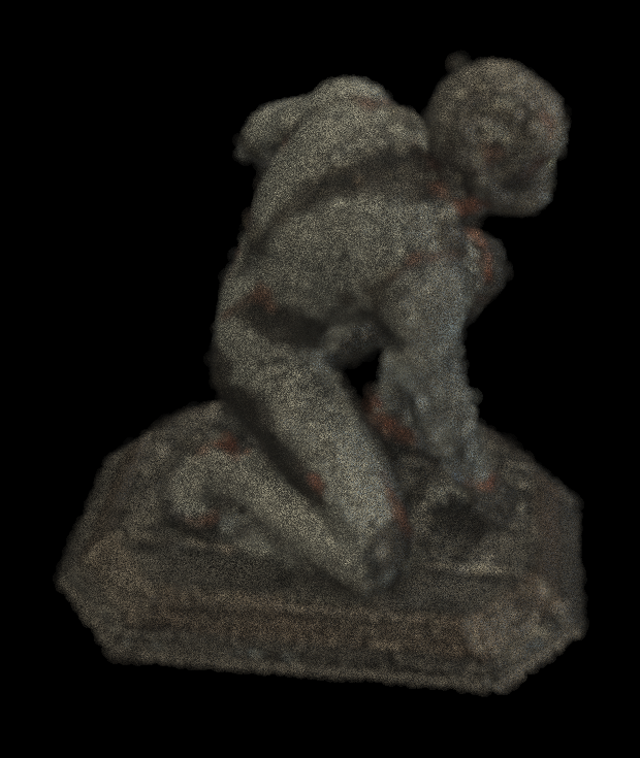
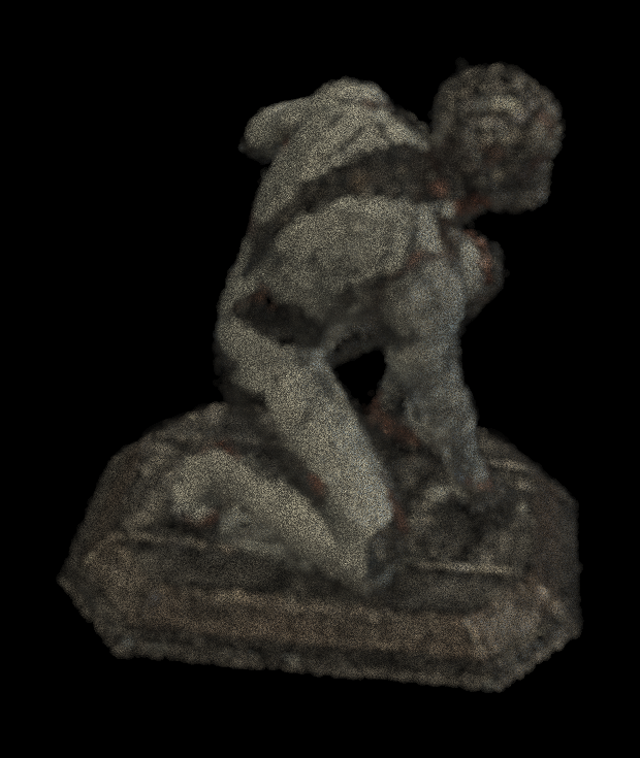
recover mask-supported Gaussian footprints

diff --git a/blade-volume-train/src/gaussian_splat.rs b/blade-volume-train/src/gaussian_splat.rs
@@ -50,6 +50,11 @@ const HIGH_VIEW_PBR_INITIAL_OPACITY: f32 = 0.25;
 const PBR_RENDER_MIN_ALPHA: f32 = 3.0e-2;
 const PBR_MIN_PERSISTED_OPACITY: f32 = 0.05;
 const PBR_MIN_RETAINED_DIVISOR: usize = 2;
+const PBR_MASK_RECOVERY_RETAINED_NUMERATOR: usize = 3;
+const PBR_MASK_RECOVERY_RETAINED_DENOMINATOR: usize = 4;
+const PBR_MASK_RECOVERY_FOOTPRINT_NUMERATOR: usize = 39;
+const PBR_MASK_RECOVERY_FOOTPRINT_DENOMINATOR: usize = 40;
+const PBR_MASK_RECOVERY_SIGMA: f32 = 2.0;
 const STATIC_CONTINUATION_MIN_VALIDATION_GAIN_DB: f32 = 0.05;
 
 /// Screen-space mean and covariance estimated from the seven 3DGUT sigma
@@ -412,6 +417,15 @@ pub struct PbrSupportGuard {
     pub particles: usize,
     pub retained: usize,
     pub restored: bool,
+}
+
+/// Outcome of restoring only initialized supports that remain inside the
+/// construction silhouettes.
+#[derive(Clone, Copy, Debug)]
+pub struct PbrSupportRecovery {
+    pub particles: usize,
+    pub retained: usize,
+    pub restored: usize,
 }
 
 /// One calibrated image capture used to separate Gaussian geometry from
@@ -1005,6 +1019,117 @@ pub fn guard_pbr_support(
         retained,
         restored,
     })
+}
+
+/// Restore strongly mask-supported particles after a partial PBR support
+/// collapse.
+///
+/// The ordinary background-only objective remains responsible for healthy
+/// fits. Recovery activates only when fewer than three quarters of the input
+/// particles would survive persistence, after the existing half-cloud guard
+/// has had an opportunity to reject a degenerate fit. A low-opacity particle
+/// recovers its initialized opacity, scale, and rotation only when the center
+/// and six two-sigma axis endpoints land inside at least 97.5% of construction
+/// masks. Held views do not enter this decision.
+pub fn recover_masked_pbr_support(
+    model: &mut vol::PointCloudModel,
+    initialized: &vol::PointCloudModel,
+    capture: &crate::inverse::capture::Capture,
+    view_indices: &[usize],
+) -> Result<PbrSupportRecovery, String> {
+    model.validate()?;
+    initialized.validate()?;
+    if model.points.len() != initialized.points.len() {
+        return Err("PBR support recovery requires matching particle counts".to_string());
+    }
+    if view_indices
+        .iter()
+        .any(|&index| index >= capture.views.len())
+    {
+        return Err("PBR support recovery view is outside the capture".to_string());
+    }
+    let particles = model.points.len();
+    let retained = model
+        .points
+        .iter()
+        .filter(|point| point.w >= PBR_MIN_PERSISTED_OPACITY)
+        .count();
+    let mut outcome = PbrSupportRecovery {
+        particles,
+        retained,
+        restored: 0,
+    };
+    if view_indices.is_empty()
+        || view_indices
+            .iter()
+            .any(|&index| capture.views[index].mask.is_none())
+        || retained * PBR_MASK_RECOVERY_RETAINED_DENOMINATOR
+            >= particles * PBR_MASK_RECOVERY_RETAINED_NUMERATOR
+    {
+        return Ok(outcome);
+    }
+    let initialized_transforms = initialized
+        .transforms
+        .as_ref()
+        .ok_or_else(|| "PBR support recovery requires initialized transforms".to_string())?;
+    let transforms = model
+        .transforms
+        .as_mut()
+        .ok_or_else(|| "PBR support recovery requires learned transforms".to_string())?;
+    for index in 0..particles {
+        if model.points[index].w >= PBR_MIN_PERSISTED_OPACITY {
+            continue;
+        }
+        let center = model.points[index].truncate();
+        let rotation = initialized_transforms.rotations[index];
+        let scale = initialized_transforms.scales[index];
+        let mut samples = [center; 7];
+        for (axis_index, axis) in [glam::Vec3::X, glam::Vec3::Y, glam::Vec3::Z]
+            .into_iter()
+            .enumerate()
+        {
+            let offset = rotation * (axis * scale) * PBR_MASK_RECOVERY_SIGMA;
+            samples[1 + 2 * axis_index] = center - offset;
+            samples[2 + 2 * axis_index] = center + offset;
+        }
+        let mut inside = 0usize;
+        let total = view_indices.len() * samples.len();
+        for &view_index in view_indices {
+            let view = &capture.views[view_index];
+            let mask = view.mask.as_ref().unwrap();
+            for &sample in &samples {
+                let Some(([x, y], _)) = crate::inverse::capture::project(
+                    &view.camera,
+                    capture.width,
+                    capture.height,
+                    sample,
+                ) else {
+                    continue;
+                };
+                let x = x.floor() as isize;
+                let y = y.floor() as isize;
+                if x >= 0
+                    && y >= 0
+                    && x < capture.width as isize
+                    && y < capture.height as isize
+                    && mask[y as usize * capture.width + x as usize] > 0.5
+                {
+                    inside += 1;
+                }
+            }
+        }
+        if inside * PBR_MASK_RECOVERY_FOOTPRINT_DENOMINATOR
+            < total * PBR_MASK_RECOVERY_FOOTPRINT_NUMERATOR
+        {
+            continue;
+        }
+        model.points[index].w = initialized.points[index].w;
+        transforms.scales[index] = initialized_transforms.scales[index];
+        transforms.rotations[index] = initialized_transforms.rotations[index];
+        outcome.restored += 1;
+    }
+    model.validate()?;
+    Ok(outcome)
 }
 
 /// Transfer learned Gaussian support back to the corresponding PBR surfels.
@@ -4265,6 +4390,79 @@ mod tests {
             .scales
             .iter()
             .all(|&scale| scale == glam::Vec3::splat(0.02)));
+    }
+
+    #[test]
+    fn masked_pbr_recovery_is_local_and_requires_partial_collapse() {
+        let mut initialized = model(
+            (0..8)
+                .map(|index| glam::Vec4::new((index as f32 - 3.5) * 0.01, 0.0, 2.0, 0.25))
+                .collect(),
+        );
+        initialized
+            .transforms
+            .as_mut()
+            .unwrap()
+            .scales
+            .fill(glam::Vec3::splat(0.01));
+        let capture = |mask: Vec<f32>| crate::inverse::capture::Capture {
+            width: 8,
+            height: 8,
+            views: vec![crate::inverse::capture::View {
+                name: "mask.png".to_string(),
+                camera: vol::CameraParams {
+                    cam_position: [0.0; 3],
+                    cam_orientation: glam::Quat::IDENTITY.to_array(),
+                    fov: [1.0; 2],
+                    depth: 10.0,
+                    principal: [0.0; 2],
+                },
+                pixels: vec![[0.0; 3]; 64],
+                mask: Some(mask),
+            }],
+        };
+        let learned = || {
+            let mut learned = initialized.clone();
+            for point in &mut learned.points[5..] {
+                point.w = 0.01;
+            }
+            learned
+                .transforms
+                .as_mut()
+                .unwrap()
+                .scales
+                .fill(glam::Vec3::splat(0.001));
+            learned
+        };
+
+        let mut recovered = learned();
+        let outcome =
+            recover_masked_pbr_support(&mut recovered, &initialized, &capture(vec![1.0; 64]), &[0])
+                .unwrap();
+        assert_eq!(outcome.retained, 5);
+        assert_eq!(outcome.restored, 3);
+        assert!(recovered.points[5..].iter().all(|point| point.w == 0.25));
+        let scales = &recovered.transforms.as_ref().unwrap().scales;
+        assert!(scales[..5]
+            .iter()
+            .all(|&scale| scale == glam::Vec3::splat(0.001)));
+        assert!(scales[5..]
+            .iter()
+            .all(|&scale| scale == glam::Vec3::splat(0.01)));
+
+        let mut outside = learned();
+        let outcome =
+            recover_masked_pbr_support(&mut outside, &initialized, &capture(vec![0.0; 64]), &[0])
+                .unwrap();
+        assert_eq!(outcome.restored, 0);
+
+        let mut healthy = learned();
+        healthy.points[5].w = 0.1;
+        let outcome =
+            recover_masked_pbr_support(&mut healthy, &initialized, &capture(vec![1.0; 64]), &[0])
+                .unwrap();
+        assert_eq!(outcome.retained, 6);
+        assert_eq!(outcome.restored, 0);
     }
 
     #[test]

diff --git a/blade-volume-train/src/bin/reconstruct.rs b/blade-volume-train/src/bin/reconstruct.rs
@@ -1207,6 +1207,30 @@ fn main() {
                     std::process::exit(1);
                 });
         }
+        if !multilight_geometry_fitted {
+            let initialized =
+                train::gaussian_splat::pbr_from_surface(&fitted.scene.model, train_views.len())
+                    .unwrap_or_else(|error| {
+                        eprintln!("cannot rebuild initialized PBR support: {error}");
+                        std::process::exit(1);
+                    });
+            let recovery = train::gaussian_splat::recover_masked_pbr_support(
+                gaussian,
+                &initialized,
+                &capture,
+                &train_views,
+            )
+            .unwrap_or_else(|error| {
+                eprintln!("cannot recover mask-supported PBR geometry: {error}");
+                std::process::exit(1);
+            });
+            if recovery.restored != 0 {
+                println!(
+                    "PBR support: restored {} mask-supported particles after {} of {} survived fitting",
+                    recovery.restored, recovery.retained, recovery.particles,
+                );
+            }
+        }
         train::gaussian_splat::attach_pbr(gaussian, &fitted.scene.model).unwrap_or_else(|error| {
             eprintln!("cannot attach final PBR attributes to Gaussian geometry: {error}");
             std::process::exit(1);

diff --git a/docs/RELIGHTING_ROADMAP.md b/docs/RELIGHTING_ROADMAP.md
@@ -48,9 +48,10 @@ not contain or fall back to polygonal geometry.
 - The first Objects With Lighting gate now holds out both camera and natural
   HDR environment independently. A 25,000-point scalar cloud is recognizable
   and reaches 21.88/20.16 dB foreground mean/worst on nine official pairs, but
-  remains grey and texture-poor. The ordinarily trained Gaussian suppresses
-  useful foreground support; retaining the initialized support improves it,
-  but does not yet produce a validation-safe training change.
+  remains grey and texture-poor. A local construction-mask recovery now
+  restores 3,664 of the supports suppressed by ordinary Gaussian fitting and
+  improves official mean, tail, recall, and precision together. It does not
+  recover the missing material detail.
 
 The current bottleneck is therefore **preserving cross-view surface support in
 the Gaussian objective first, separating material from unknown illumination
@@ -75,7 +76,7 @@ surface.
 | Light transport | renderer selected | Use coupled sampled visibility and one bounded bounce: four samples for iteration, eight for selected output | Both excluded-light mean/tail improve with no coverage regression or GPU fault |
 | Radiometry and transport | attributed; scalar correction and extra samples rejected | Preserve measured light scale; treat the repeated `(light, view)` residual as surface/response evidence, not exposure | A correction repeats across objects and every known-light tail before either excluded light is opened |
 | Materials and capture layout | ownership-filtered response improves 27/28 official cells but remains rejected | Keep the global broad-response diagnostic opt-in; use calibrated depth/correspondence rather than more mask heuristics before revisiting the validated diffuse/F0 basis | Every known-light and whole-frame tail plus two held lights and a second object improve; otherwise keep the feature off |
-| Unknown natural illumination | independent OWL gate complete; quality fails | Preserve initialized Gaussian coverage with a construction-mask objective before changing material or light capacity | Improve official mean/worst PSNR and recall without losing precision on the fixed nine-pair gate |
+| Unknown natural illumination | local support recovery selected; appearance quality fails | Replace safety restoration with an ownership-aware training objective before changing material or light capacity | Improve over the recovered cloud's official mean/worst PSNR and recall without losing precision on the fixed nine-pair gate |
 
 The selected dense-support prerequisite remains the training-mask hull. On the
 `obj_31_painted_toy` split, filtering 68,278 of 1,254,170 one-view fused samples
@@ -1092,6 +1093,7 @@ recall/precision:
 | 2.5k ordinarily fitted Gaussian | `19.64/17.73 dB; 68.3/96.8%` |
 | 25k scalar | `21.88/20.16 dB; 99.6/95.7%` |
 | 25k ordinarily fitted Gaussian | `19.28/17.39 dB; 60.8/95.8%` |
+| 25k mask-recovered Gaussian | `19.64/18.07 dB; 69.6/96.0%` |
 | 25k support-preserving Gaussian diagnostic | `20.44/17.95 dB; 87.1/92.5%` |
 | Black | `10.84/8.60 dB` |
 
@@ -1103,19 +1105,37 @@ survival guard from 50% to 80% restores 98.7% recall, but scores only
 20.32/18.03 dB and reduces precision to 89.8%; that code was removed. A global
 particle-count guard is not the required coverage objective.
 
+A narrower recovery is selected. It activates only when the single-light fit
+would retain fewer than three quarters of its evidence-backed inputs, after the
+existing half-cloud collapse guard. Each low-opacity point recovers initialized
+opacity and covariance only if its center and six two-sigma axis endpoints lie
+inside at least 97.5% of construction-mask samples. This restores 3,664 points.
+On the 12 internal cameras it moves the ordinary Gaussian from
+`25.81/21.44;19.51/15.54 dB;60.3/97.6%` to
+`26.24/22.28;19.98/16.42 dB;68.6/97.7%`. On the nine official pairs it improves
+19.28/17.39→19.64/18.07 dB, recall 60.8→69.6%, and precision 95.8→96.0%.
+Healthy fits above the three-quarter boundary, maskless captures, multilight
+continuations, and full restores are exact no-ops.
+
+The independently prepared OWL Apple split is the real-capture no-op control.
+Its ordinary fit retains 21,512 of 24,996 particles (86.1%), so recovery changes
+nothing. The nine internal held cameras score `23.35/18.70;15.00/9.19 dB` with
+81.2% recall and 98.3% precision. No Apple ground-truth relighting pair entered
+selection or this control.
+
 The selected evidence is deliberately narrow: an all-cloud pipeline can
 recover a recognizable surface and react to an independent natural environment,
-but appearance is grey, soft, and missing high-frequency texture. The next
-implementation must use construction masks and views to penalize lost Gaussian
-foreground ownership while jointly fitting opacity and covariance. It may
-advance only if official mean, tail, recall, and precision improve together.
-After support is stable, constrain the material/light decomposition with shared
-material structure or calibrated repeated environments; one unknown input
-environment cannot by itself identify arbitrary per-point BRDFs. Batch point
-proposals before revisiting the exact 44-minute refinement. ReNé remains behind
-near-field point-light and deterministic background-subtraction work, while
-OLATverse is the best repeated-light final gate once release access is
-available.
+but appearance is grey, soft, and missing high-frequency texture. The local
+recovery bounds damage after fitting; the next implementation should make
+foreground ownership part of the Gaussian objective so useful supports never
+need restoration. It may advance only if mean, tail, recall, and precision
+improve over the recovered cloud together. Then constrain material/light
+decomposition with shared material structure or calibrated repeated
+environments; one unknown input environment cannot by itself identify arbitrary
+per-point BRDFs. Batch point proposals before revisiting the exact 44-minute
+refinement. ReNé remains behind near-field point-light and deterministic
+background-subtraction work, while OLATverse is the best repeated-light final
+gate once release access is available.
 
 ## Milestones
 

diff --git a/README.md b/README.md
@@ -62,9 +62,13 @@ a convincing real-world result.
   fitting. A 25,000-point scalar cloud reaches 21.88/20.16 dB foreground
   mean/worst with 99.6% mask recall. The image is recognizably relit, but its
   grey, soft appearance loses most texture and material detail. Ordinary
-  Gaussian fitting collapses foreground support; preserving initialization
-  raises recall from 60.8% to 87.1%, but remains only a diagnostic until a
-  coverage-aware fit improves quality and precision together.
+  Gaussian fitting collapses foreground support. Restoring only initialized
+  two-sigma footprints that agree with at least 97.5% of construction-mask
+  samples raises official recall from 60.8% to 69.6%, precision from 95.8% to
+  96.0%, and mean/worst quality from 19.28/17.39 to 19.64/18.07 dB. This is a
+  selected safety recovery, not a solution to the grey appearance.
+  On the independently prepared OWL Apple split, the healthy fit retains 86.1%
+  of its inputs and recovery is an exact no-op.
 - **Fresh-object support result — selected; sampled transport now works.** On a
   second painted, concave object, rejecting dense samples outside the training
   silhouettes before downsampling raises held-camera foreground quality by
@@ -294,7 +298,7 @@ both the camera and the studio environment used for the reference.
 | OpenIllumination fresh-object diagnostic<br>held camera and excluded pattern 006 | <img src="docs/images/reconstruction/openillumination-painted-toy-pattern006-reference.png" alt="OpenIllumination painted toy reference under excluded lighting pattern 006" width="320"> | <img src="docs/images/reconstruction/openillumination-painted-toy-pattern006-surface.png" alt="Excluded view and light rendered by the filtered scalar point surface" width="320"> |
 | OpenIllumination sampled-transport diagnostic<br>same held camera and excluded pattern 006 | <img src="docs/images/reconstruction/openillumination-painted-toy-pattern006-reference.png" alt="OpenIllumination painted toy reference under excluded lighting pattern 006" width="320"> | <img src="docs/images/reconstruction/openillumination-painted-toy-pattern006-gaussian-transport.png" alt="Excluded view and light rendered by the PBR Gaussian cloud with sampled visibility and one bounce" width="320"> |
 | Objects With Lighting surface<br>independent camera and unseen natural HDR environment | <img src="docs/images/reconstruction/objects-with-lighting-antman-env7-reference.png" alt="Objects With Lighting Ant-Man official reference under unseen environment 7" width="320"> | <img src="docs/images/reconstruction/objects-with-lighting-antman-env7-surface.png" alt="Unseen view and natural environment rendered by the 25,000-point scalar cloud" width="320"> |
-| Objects With Lighting Gaussian diagnostic<br>same independent camera and unseen environment | <img src="docs/images/reconstruction/objects-with-lighting-antman-env7-reference.png" alt="Objects With Lighting Ant-Man official reference under unseen environment 7" width="320"> | <img src="docs/images/reconstruction/objects-with-lighting-antman-env7-gaussian.png" alt="Unseen view and natural environment rendered by the support-preserving Gaussian diagnostic" width="320"> |
+| Objects With Lighting Gaussian<br>same independent camera and unseen environment | <img src="docs/images/reconstruction/objects-with-lighting-antman-env7-reference.png" alt="Objects With Lighting Ant-Man official reference under unseen environment 7" width="320"> | <img src="docs/images/reconstruction/objects-with-lighting-antman-env7-gaussian.png" alt="Unseen view and natural environment rendered by the mask-recovered Gaussian cloud" width="320"> |
 
 The pictures expose what PSNR alone hides: the light-field branch has the
 scene and viewpoint but remains blurry, while the relightable branches respond
@@ -316,7 +320,8 @@ alignment, so they are not directly comparable to the whole-frame table below:
 | Ant-Man official unseen camera/environment | Foreground PSNR | Recall / precision |
 | --- | ---: | ---: |
 | 25k scalar surface (shown) | 21.88 / 20.16 dB | 99.6% / 95.7% |
-| 25k support-preserving Gaussian diagnostic (shown) | 20.44 / 17.95 dB | 87.1% / 92.5% |
+| 25k mask-recovered Gaussian (shown) | 19.64 / 18.07 dB | 69.6% / 96.0% |
+| 25k support-preserving Gaussian diagnostic | 20.44 / 17.95 dB | 87.1% / 92.5% |
 | 25k ordinarily fitted Gaussian | 19.28 / 17.39 dB | 60.8% / 95.8% |
 | Black | 10.84 / 8.60 dB | — |
 
@@ -325,7 +330,11 @@ black establishes real signal, not acceptable decomposition quality. Increasing
 the point budget from 2,500 to 25,000 improves the scalar mean by 1.03 dB. By
 contrast, the current single-environment Gaussian objective prunes or dims
 useful foreground support. A stricter global survival threshold restores recall
-but loses mean quality and precision, so that attempted change is rejected.
+but loses mean quality and precision, so that attempted change is rejected. The
+selected local recovery restores 3,664 of those supports only after their
+initialized footprints pass the construction silhouettes; it improves every
+internal and official production metric while leaving healthy, maskless, and
+multi-light fits unchanged.
 
 | Gate | Training / held views | Static held PSNR | PBR held PSNR | Coverage |
 | --- | ---: | ---: | ---: | ---: |
